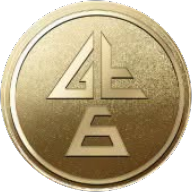
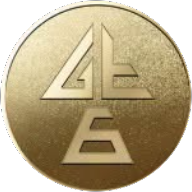
Cut the coin inside its own groove
The dark ring left around the token was not background but the coin's
recessed groove, which reads as grime once the coin sits on a light card.
The mask now falls inside it, leaving the face and a clean gold edge.

diff --git a/sw.js b/sw.js
@@ -7,7 +7,7 @@
  * and only falls back to the cache when the network cannot answer.
  */
 
-const VERSION = 'v7';
+const VERSION = 'v8';
 const PAGES = `48thdb-pages-${VERSION}`;
 const ASSETS = `48thdb-assets-${VERSION}`;
 
